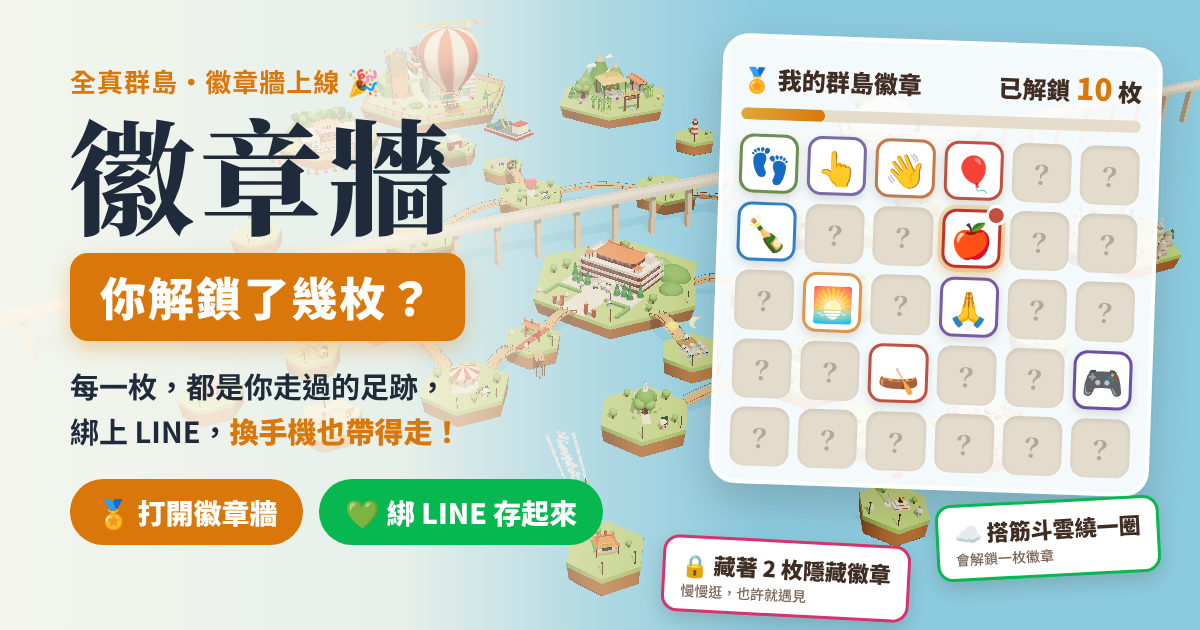
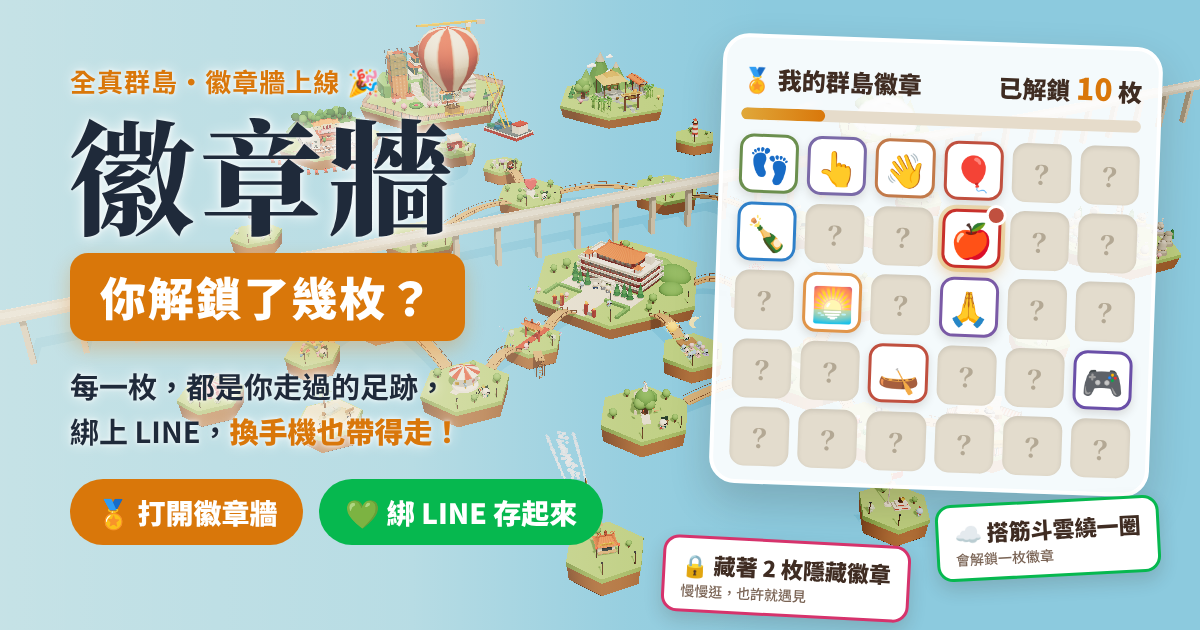
徽章牆縮圖：左側白色遮罩調更透明，文字改用白色光暈維持可讀
Claude-Session: https://claude.ai/code/session_01CYjxtCfQ8MjKojeoS8Ncse

diff --git a/islands/promo/poster-badges.html b/islands/promo/poster-badges.html
@@ -6,8 +6,9 @@
 body{margin:0;width:1200px;height:630px;overflow:hidden;font-family:"Noto Sans TC","Noto Color Emoji",sans-serif;color:#1f2a3a;
  background:#8ac5dc;position:relative}
 .art{position:absolute;inset:0;width:1200px;height:630px;object-fit:cover}
-.veil{position:absolute;inset:0;background:linear-gradient(to right,rgba(255,250,238,.9) 0%,rgba(255,250,238,.78) 34%,rgba(255,250,238,.25) 52%,rgba(255,250,238,0) 64%)}
+.veil{position:absolute;inset:0;background:linear-gradient(to right,rgba(255,250,238,.5) 0%,rgba(255,250,238,.38) 34%,rgba(255,250,238,.1) 52%,rgba(255,250,238,0) 64%)}
 .txt{position:absolute;left:70px;top:62px;width:590px}
+.kick,h1,.desc{text-shadow:0 0 14px rgba(255,255,255,.95),0 0 4px rgba(255,255,255,.9)}
 .kick{font-weight:700;font-size:26px;color:#d9770a;letter-spacing:.04em}
 h1{margin:6px 0 0;font-family:"Noto Serif TC",serif;font-weight:900;font-size:124px;line-height:1.08;letter-spacing:.04em}
 .pill{display:inline-block;margin-top:14px;padding:10px 30px 12px;border-radius:18px;background:#d9770a;color:#fff;font-weight:900;font-size:46px;letter-spacing:.04em;box-shadow:0 8px 20px rgba(217,119,10,.3)}
